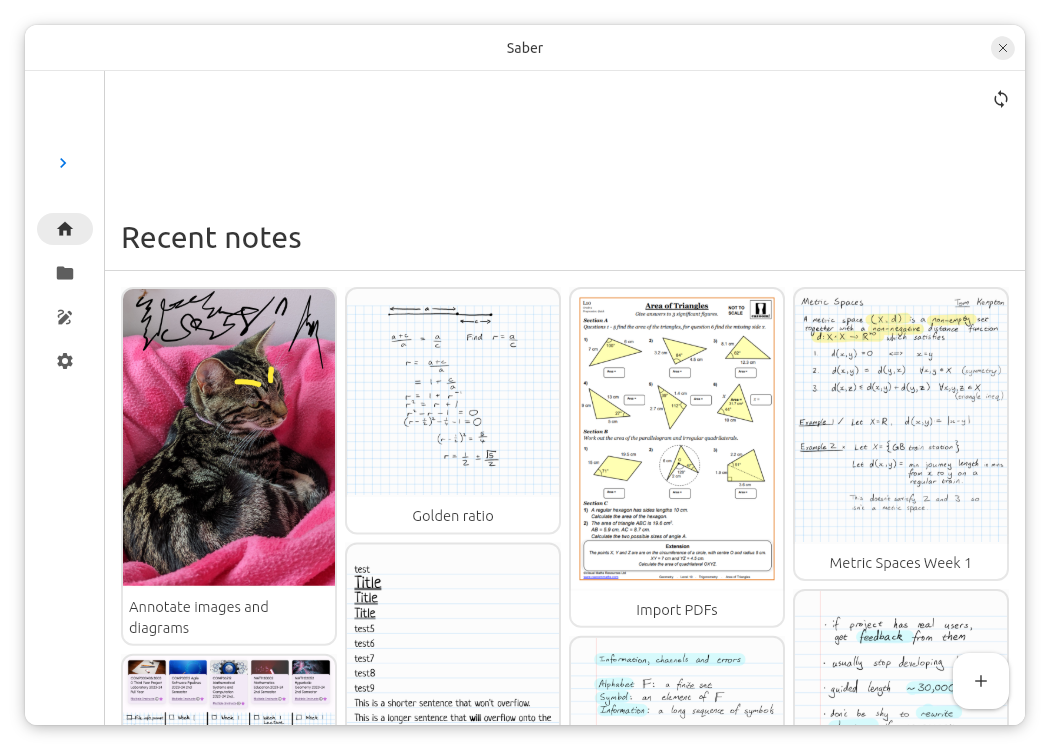
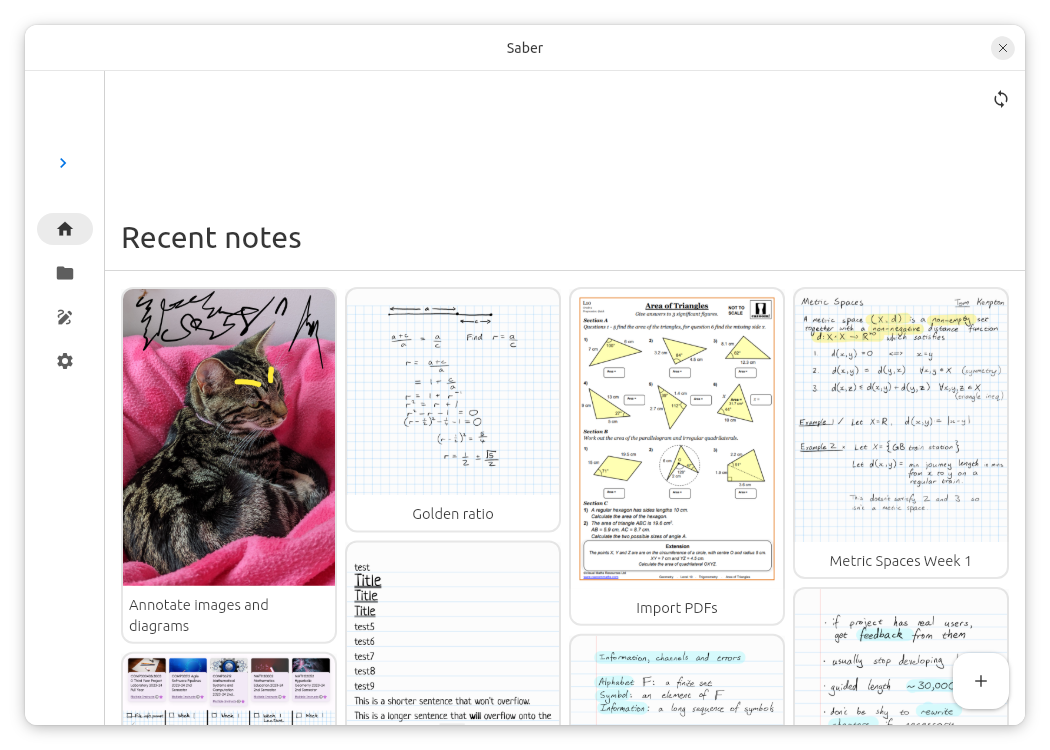
fix: page background overflowing rounded corners

diff --git a/lib/components/home/preview_card.dart b/lib/components/home/preview_card.dart
@@ -114,6 +114,7 @@ class _PreviewCardState extends State<PreviewCard> {
               child: Stack(
                 children: [
                   Positioned.fill(
+                    top: kYaruFocusBorderWidth,
                     child: ColoredBox(
                       color: InnerCanvas.defaultBackgroundColor.withInversion(
                         invert,
@@ -126,9 +127,16 @@ class _PreviewCardState extends State<PreviewCard> {
                       duration: const Duration(milliseconds: 300),
                       child: ConstrainedBox(
                         key: ValueKey(thumbnail.updateCount),
-                        constraints: const BoxConstraints(minHeight: 100),
+                        constraints: const BoxConstraints(
+                          minWidth: double.infinity,
+                          minHeight: 100,
+                        ),
                         child: Padding(
-                          padding: const EdgeInsets.all(kYaruFocusBorderWidth),
+                          padding: const EdgeInsets.only(
+                            top: kYaruFocusBorderWidth,
+                            left: kYaruFocusBorderWidth,
+                            right: kYaruFocusBorderWidth,
+                          ),
                           child: ClipRRect(
                             borderRadius: const .only(
                               topLeft: .circular(
@@ -141,7 +149,11 @@ class _PreviewCardState extends State<PreviewCard> {
                             child: InvertWidget(
                               invert: invert,
                               child: thumbnail.doesImageExist
-                                  ? Image(image: thumbnail.image!)
+                                  ? Image(
+                                      image: thumbnail.image!,
+                                      alignment: .topCenter,
+                                      fit: .cover,
+                                    )
                                   : const _FallbackThumbnail(),
                             ),
                           ),
